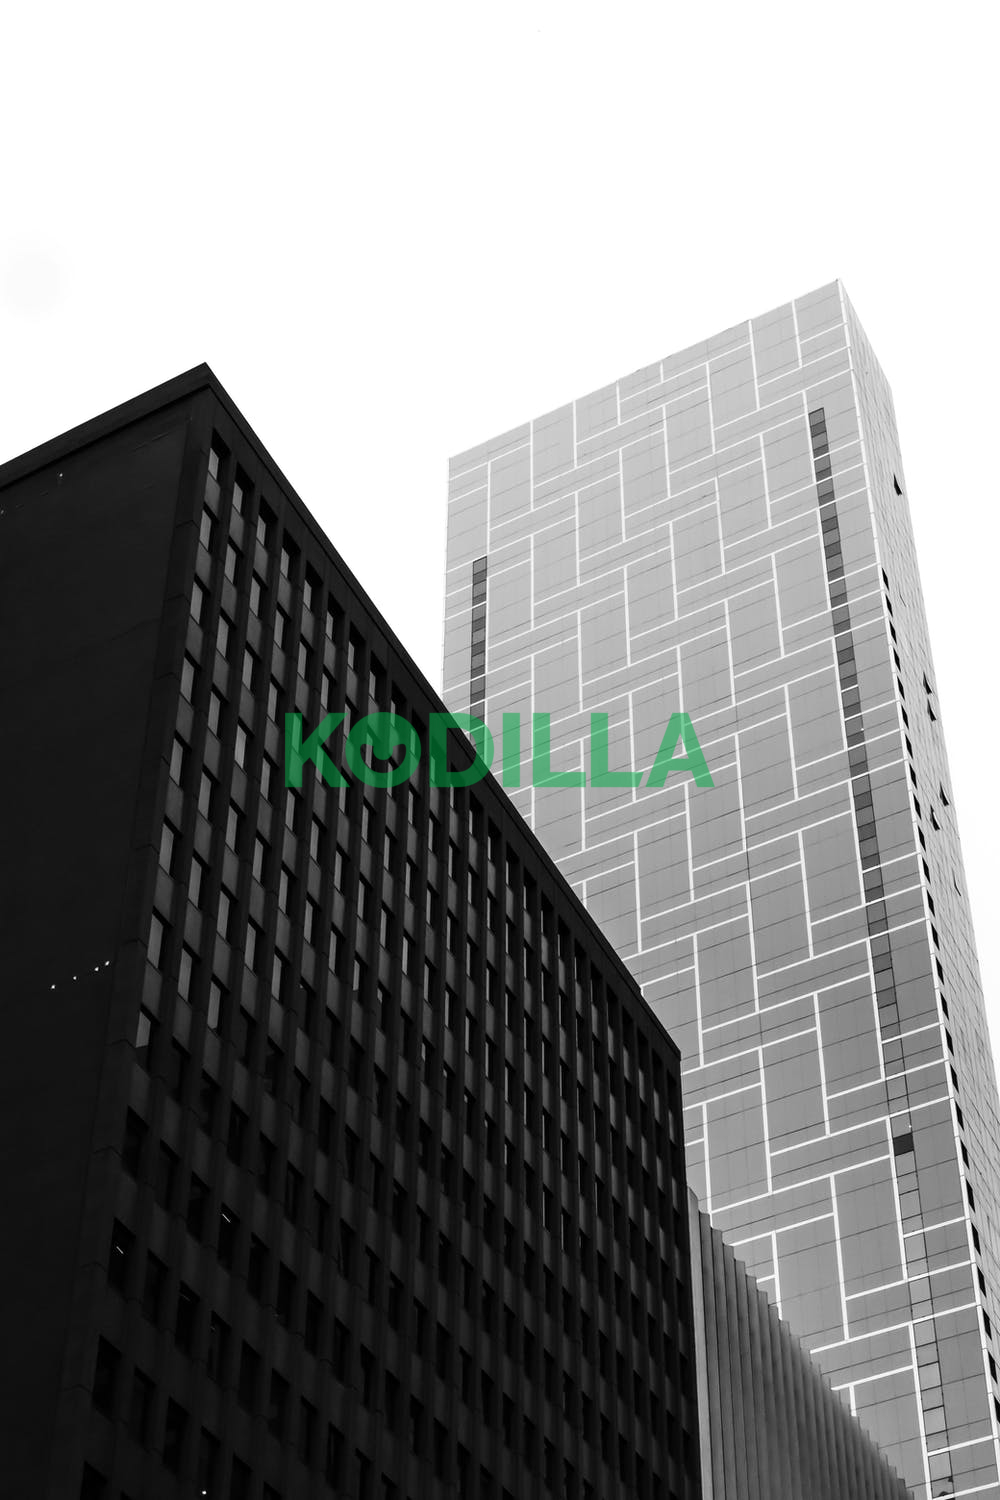
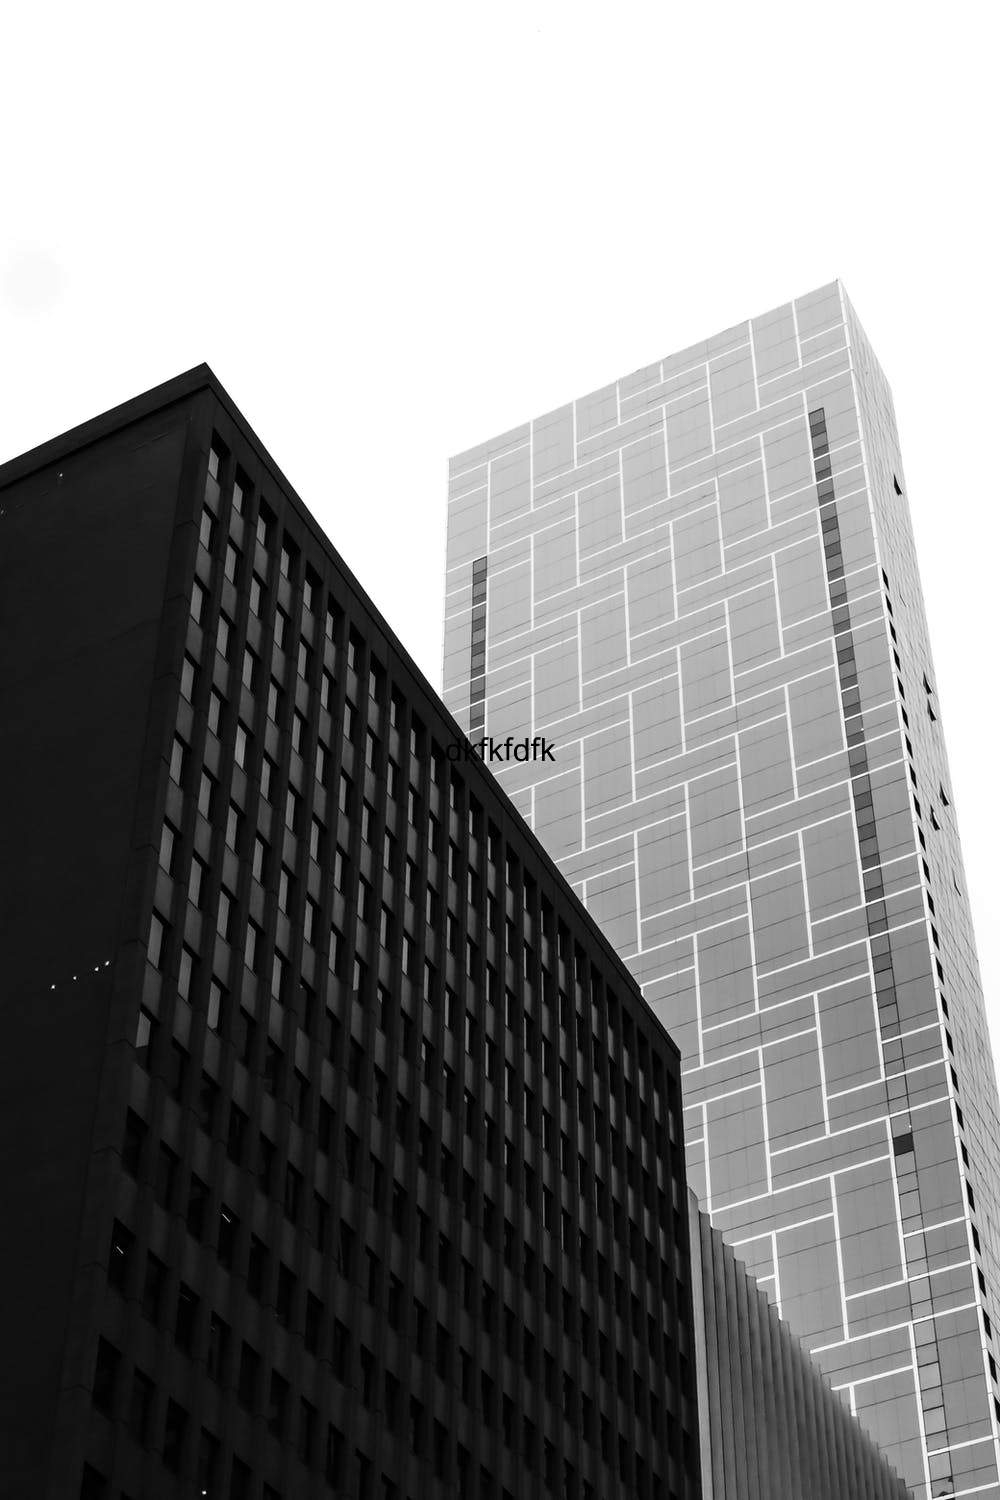
ex.26.3

Changed region(s): [[0.279, 0.46, 0.713, 0.552]]

diff --git a/app.js b/app.js
@@ -1,7 +1,8 @@
 const Jimp = require('jimp');
 const inquirer = require('inquirer');
+const fs = require('fs');
 
-const addTextWatermarkToImage = async function(inputFile, outputFile, text) {
+const addTextWatermarkToImage = async function (inputFile, outputFile, text) {
   const image = await Jimp.read(inputFile);
   const font = await Jimp.loadFont(Jimp.FONT_SANS_32_BLACK);
   const textData = {
@@ -9,12 +10,13 @@ const addTextWatermarkToImage = async function(inputFile, outputFile, text) {
     alignmentX: Jimp.HORIZONTAL_ALIGN_CENTER,
     alignmentY: Jimp.VERTICAL_ALIGN_MIDDLE,
   };
-
   image.print(font, 0, 0, textData, image.getWidth(), image.getHeight());
+
   await image.quality(100).writeAsync(outputFile);
 };
 
-const addImageWatermarkToImage = async function(inputFile, outputFile, watermarkFile) {
+/* watermark image */
+const addImageWatermarkToImage = async function (inputFile, outputFile, watermarkFile) {
   const image = await Jimp.read(inputFile);
   const watermark = await Jimp.read(watermarkFile);
   const x = image.getWidth() / 2 - watermark.getWidth() / 2;
@@ -25,45 +27,50 @@ const addImageWatermarkToImage = async function(inputFile, outputFile, watermark
     opacitySource: 0.5,
   });
   await image.quality(100).writeAsync(outputFile);
-};
+}
 
 const prepareOutputFilename = (filename) => {
-  const [ name, ext ] = filename.split('.');
+  const [name, ext] = filename.split('.');
   return `${name}-with-watermark.${ext}`;
 };
 
+/* Start function */
 const startApp = async () => {
-
   // Ask if user is ready
   const answer = await inquirer.prompt([{
-      name: 'start',
-      message: 'Hi! Welcome to "Watermark manager". Copy your image files to `/img` folder. Then you\'ll be able to use them in the app. Are you ready?',
-      type: 'confirm'
-    }]);
+    name: 'start',
+    message: 'Hi!. Welcome to "Watermark manager". Copy your files to `/img` folder. Then you\'ll be able to use them in the app. Are you ready?',
+    type: 'confirm',
+  }]);
 
   // if answer is no, just quit the app
-  if(!answer.start) process.exit();
+  if (!answer.start) process.exit();
 
   // ask about input file and watermark type
   const options = await inquirer.prompt([{
     name: 'inputImage',
     type: 'input',
     message: 'What file do you want to mark?',
-    default: 'test.jpg',
+    default: 'test.jpeg',
   }, {
     name: 'watermarkType',
     type: 'list',
     choices: ['Text watermark', 'Image watermark'],
-  }]);
-
-  if(options.watermarkType === 'Text watermark') {
+  }])
+  if (options.watermarkType === 'Text watermark') {
     const text = await inquirer.prompt([{
       name: 'value',
       type: 'input',
       message: 'Type your watermark text:',
-    }])
+    }]);
     options.watermarkText = text.value;
-    addTextWatermarkToImage('./img/' + options.inputImage, './img/' + prepareOutputFilename(options.inputImage), options.watermarkText);
+    if (fs.existsSync('./img/' + options.inputImage)) {
+      addTextWatermarkToImage('./img/' + options.inputImage, './img/' + prepareOutputFilename(options.inputImage), options.watermarkText);
+      console.log('The file Found');
+    }
+    else {
+      console.log('Sth went wrong, try again!')
+    }
   }
   else {
     const image = await inquirer.prompt([{
@@ -71,11 +78,23 @@ const startApp = async () => {
       type: 'input',
       message: 'Type your watermark name:',
       default: 'logo.png',
-    }])
+    }]);
     options.watermarkImage = image.filename;
-    addImageWatermarkToImage('./img/' + options.inputImage, './img/' + prepareOutputFilename(options.inputImage), './img/' + options.watermarkImage);
+    if (fs.existsSync('./img/' + options.inputImage))  {
+      console.log('The file Found');
+      if (fs.existsSync('./img/' + options.watermarkImage)){
+        console.log('Watermark image found');
+        addImageWatermarkToImage('./img/' + options.inputImage, './img/' + prepareOutputFilename(options.inputImage), './img/' + options.watermarkImage);
+      }
+      else {
+        console.log('Watermark image not found');
+      }
+    }
+    else {
+      console.log('Sth went wrong, try again!');
+      process.exit();
+    }
   }
-
 };
 
 startApp();
